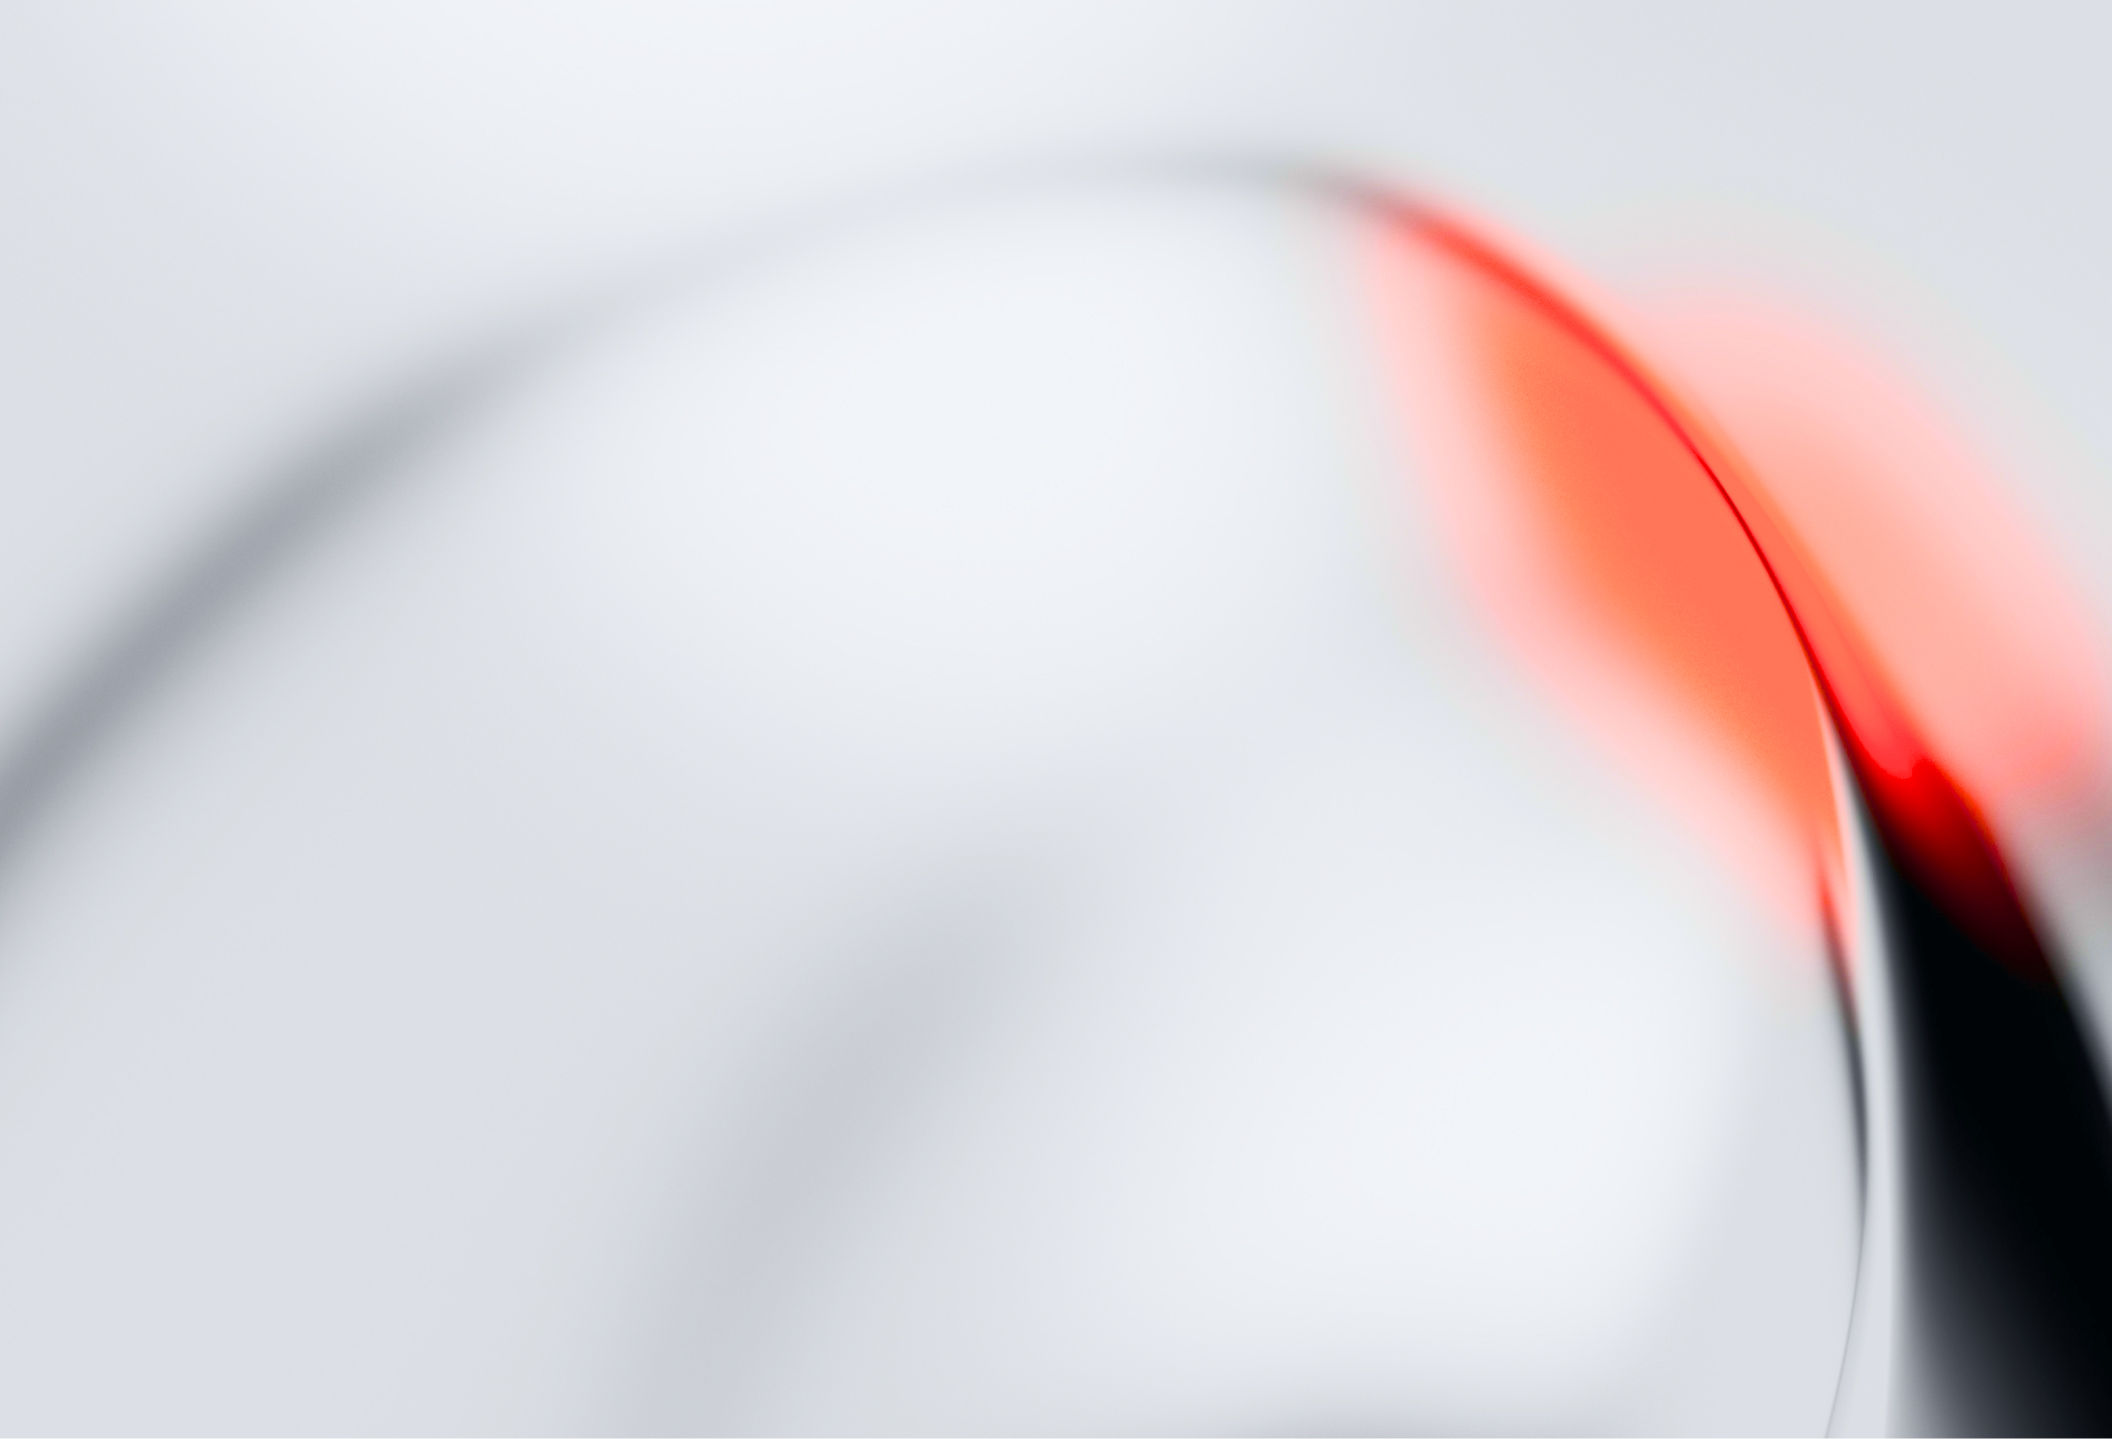
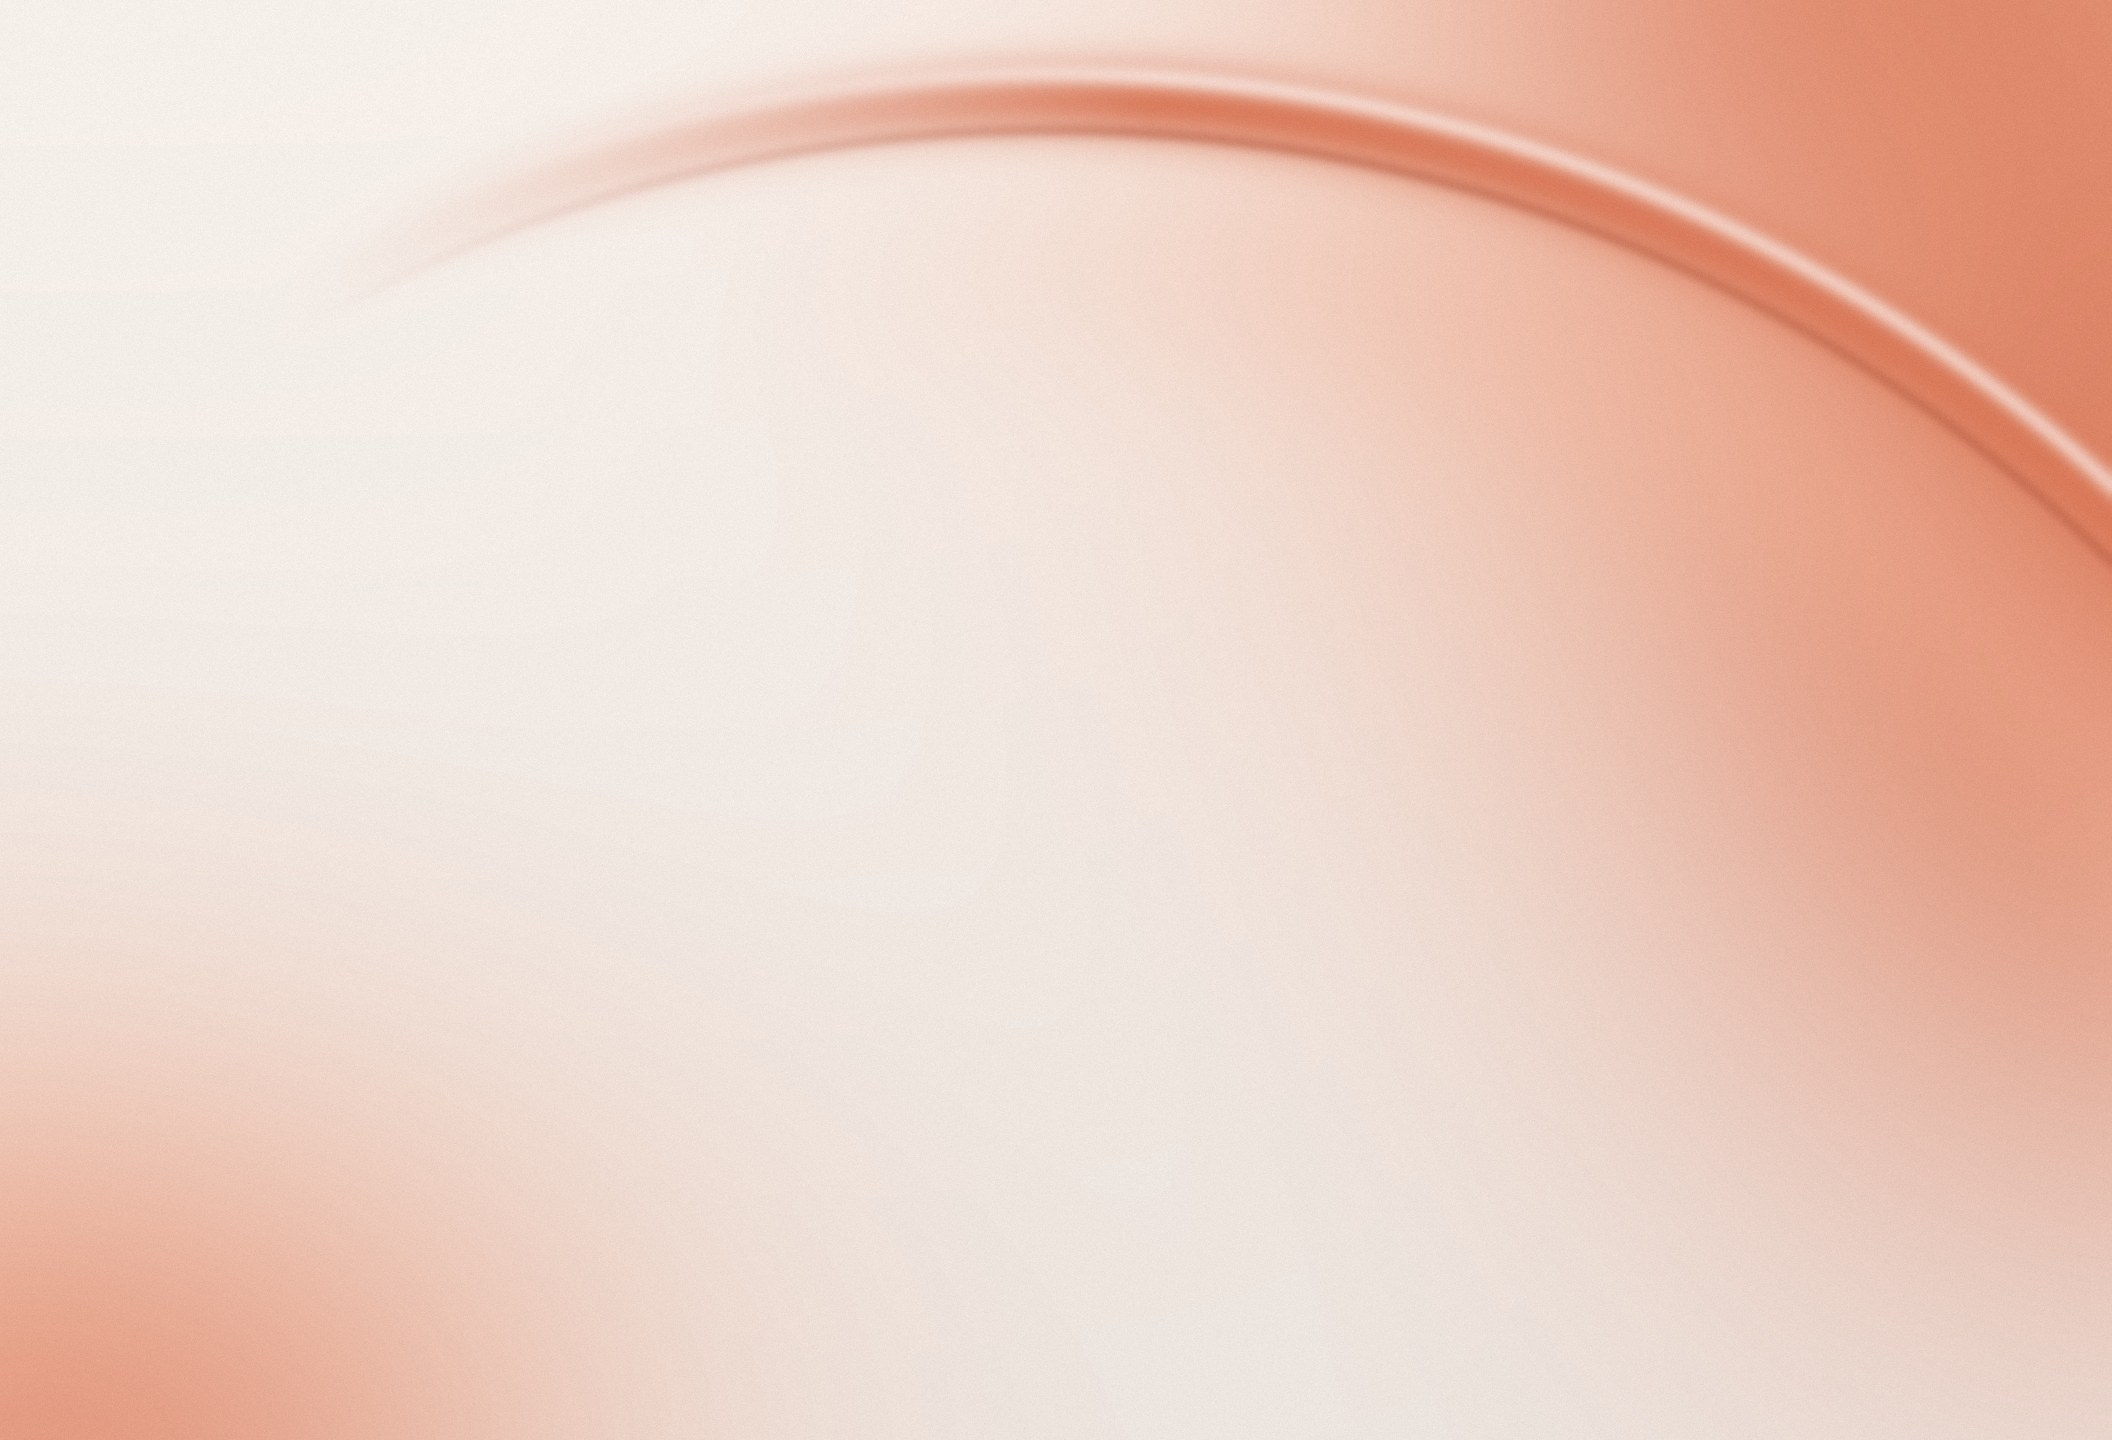
אדום הוחלף בכתום המותג, תמונה ראשית ותמונת צור קשר חדשות
Claude-Session: https://claude.ai/code/session_01WAZ9J5juQGMWQ9d3ahoe3T

diff --git a/site/assets/css/styles.css b/site/assets/css/styles.css
@@ -4706,8 +4706,8 @@ button.animate-btn::after,
   width: 255px;
   height: 80px;
   border-radius: 999px;
-  background: linear-gradient(180deg, #EA2B16 0%, #FF3B26 100%);
-  box-shadow: 0px 3.44px 5.57px 0px rgba(0, 0, 0, 0.0862745098), 0px 22.91px 37.08px 0px rgba(255, 59, 0, 0.1647058824), 0px 76px 123px 0px rgba(255, 59, 0, 0.0509803922), 0px 5.05px 8.18px 0px rgba(255, 59, 0, 0.1019607843), 0px 16.98px 27.47px 0px rgba(255, 59, 0, 0.0470588235), 0px 56px 83px 0px rgba(255, 59, 0, 0.2509803922), 0px 14px 34px 0px rgba(255, 59, 0, 0.2509803922), 0px 1px 2px 0px rgba(255, 59, 0, 0.4);
+  background: linear-gradient(180deg, #C2603F 0%, #D97757 100%);
+  box-shadow: 0px 3.44px 5.57px 0px rgba(0, 0, 0, 0.0862745098), 0px 22.91px 37.08px 0px rgba(217, 119, 87, 0.1647058824), 0px 76px 123px 0px rgba(217, 119, 87, 0.0509803922), 0px 5.05px 8.18px 0px rgba(217, 119, 87, 0.1019607843), 0px 16.98px 27.47px 0px rgba(217, 119, 87, 0.0470588235), 0px 56px 83px 0px rgba(217, 119, 87, 0.2509803922), 0px 14px 34px 0px rgba(217, 119, 87, 0.2509803922), 0px 1px 2px 0px rgba(217, 119, 87, 0.4);
 }
 .section-hero .content-wrap .title-icon .title-icon-wrap {
   position: absolute;
@@ -5321,8 +5321,8 @@ button.animate-btn::after,
   font-size: 32px;
   color: var(--white);
   border-radius: 16px;
-  background: linear-gradient(180deg, #EA2B16 0%, #FF3B26 100%);
-  box-shadow: 0px 3.44px 5.57px 0px rgba(0, 0, 0, 0.0862745098), 0px 22.91px 37.08px 0px rgba(255, 59, 0, 0.1647058824), 0px 76px 123px 0px rgba(255, 59, 0, 0.0509803922), 0px 5.05px 8.18px 0px rgba(255, 59, 0, 0.1019607843), 0px 16.98px 27.47px 0px rgba(255, 59, 0, 0.0470588235), 0px 56px 83px 0px rgba(255, 59, 0, 0.2509803922), 0px 14px 34px 0px rgba(255, 59, 0, 0.2509803922), 0px 1px 2px 0px rgba(255, 59, 0, 0.4), 0px -3px 0px 0px rgba(0, 0, 0, 0.0588235294) inset, 0px 1px 0px 0px rgba(255, 255, 255, 0.6) inset;
+  background: linear-gradient(180deg, #C2603F 0%, #D97757 100%);
+  box-shadow: 0px 3.44px 5.57px 0px rgba(0, 0, 0, 0.0862745098), 0px 22.91px 37.08px 0px rgba(217, 119, 87, 0.1647058824), 0px 76px 123px 0px rgba(217, 119, 87, 0.0509803922), 0px 5.05px 8.18px 0px rgba(217, 119, 87, 0.1019607843), 0px 16.98px 27.47px 0px rgba(217, 119, 87, 0.0470588235), 0px 56px 83px 0px rgba(217, 119, 87, 0.2509803922), 0px 14px 34px 0px rgba(217, 119, 87, 0.2509803922), 0px 1px 2px 0px rgba(217, 119, 87, 0.4), 0px -3px 0px 0px rgba(0, 0, 0, 0.0588235294) inset, 0px 1px 0px 0px rgba(255, 255, 255, 0.6) inset;
   margin-bottom: 96px;
 }
 .process-card .content {
@@ -8724,8 +8724,8 @@ button.animate-btn::after,
   width: 208px;
   height: 160px;
   border-radius: 32px;
-  background: linear-gradient(180deg, #EA2B16 0%, #FF3B26 100%), radial-gradient(62.56% 62.56% at 28.14% -10.42%, rgba(255, 255, 255, 0.2) 0%, rgba(255, 255, 255, 0) 100%);
-  box-shadow: 0px -3px 0px 0px rgba(0, 0, 0, 0.0588235294) inset, 0px 1px 0px 0px rgba(255, 255, 255, 0.6) inset, 0px 3.44px 5.57px 0px rgba(0, 0, 0, 0.0862745098), 0px 22.91px 37.08px 0px rgba(255, 59, 0, 0.1647058824), 0px 76px 123px 0px rgba(255, 59, 0, 0.0509803922), 0px 5.05px 8.18px 0px rgba(255, 59, 0, 0.1019607843), 0px 16.98px 27.47px 0px rgba(255, 59, 0, 0.0470588235), 0px 56px 83px 0px rgba(255, 59, 0, 0.2509803922), 0px 14px 34px 0px rgba(255, 59, 0, 0.2509803922), 0px 1px 2px 0px rgba(255, 59, 0, 0.4);
+  background: linear-gradient(180deg, #C2603F 0%, #D97757 100%), radial-gradient(62.56% 62.56% at 28.14% -10.42%, rgba(255, 255, 255, 0.2) 0%, rgba(255, 255, 255, 0) 100%);
+  box-shadow: 0px -3px 0px 0px rgba(0, 0, 0, 0.0588235294) inset, 0px 1px 0px 0px rgba(255, 255, 255, 0.6) inset, 0px 3.44px 5.57px 0px rgba(0, 0, 0, 0.0862745098), 0px 22.91px 37.08px 0px rgba(217, 119, 87, 0.1647058824), 0px 76px 123px 0px rgba(217, 119, 87, 0.0509803922), 0px 5.05px 8.18px 0px rgba(217, 119, 87, 0.1019607843), 0px 16.98px 27.47px 0px rgba(217, 119, 87, 0.0470588235), 0px 56px 83px 0px rgba(217, 119, 87, 0.2509803922), 0px 14px 34px 0px rgba(217, 119, 87, 0.2509803922), 0px 1px 2px 0px rgba(217, 119, 87, 0.4);
 }
 
 .team-item {
@@ -9002,8 +9002,8 @@ button.animate-btn::after,
   transition: 0.2s;
 }
 .tf-switch-check:checked {
-  background: linear-gradient(180deg, #EA2B16 0%, #FF3B26 100%);
-  box-shadow: 0px 3.44px 5.57px 0px rgba(0, 0, 0, 0.0862745098), 0px 22.91px 37.08px 0px rgba(255, 59, 0, 0.1647058824), 0px 76px 123px 0px rgba(255, 59, 0, 0.0509803922), 0px 5.05px 8.18px 0px rgba(255, 59, 0, 0.1019607843), 0px 16.98px 27.47px 0px rgba(255, 59, 0, 0.0470588235), 0px 56px 83px 0px rgba(255, 59, 0, 0.2509803922), 0px 14px 34px 0px rgba(255, 59, 0, 0.2509803922), 0px 1px 2px 0px rgba(255, 59, 0, 0.4);
+  background: linear-gradient(180deg, #C2603F 0%, #D97757 100%);
+  box-shadow: 0px 3.44px 5.57px 0px rgba(0, 0, 0, 0.0862745098), 0px 22.91px 37.08px 0px rgba(217, 119, 87, 0.1647058824), 0px 76px 123px 0px rgba(217, 119, 87, 0.0509803922), 0px 5.05px 8.18px 0px rgba(217, 119, 87, 0.1019607843), 0px 16.98px 27.47px 0px rgba(217, 119, 87, 0.0470588235), 0px 56px 83px 0px rgba(217, 119, 87, 0.2509803922), 0px 14px 34px 0px rgba(217, 119, 87, 0.2509803922), 0px 1px 2px 0px rgba(217, 119, 87, 0.4);
 }
 .tf-switch-check:checked::before {
   left: 88px;

diff --git a/site/index.html b/site/index.html
@@ -90,16 +90,16 @@
                             <stop offset="1" stop-color="#292C2E"/>
                             </linearGradient>
                             <linearGradient id="paint1_linear_580_105" x1="10.0034" y1="0" x2="10.0034" y2="20" gradientUnits="userSpaceOnUse">
-                            <stop offset="1" stop-color="#EA2B16"/>
-                            <stop offset="1" stop-color="#FF3B26"/>
+                            <stop offset="1" stop-color="#C2603F"/>
+                            <stop offset="1" stop-color="#D97757"/>
                             </linearGradient>
                             <linearGradient id="paint2_linear_580_105" x1="10.2993" y1="-1.30435" x2="21.6031" y2="11.1057" gradientUnits="userSpaceOnUse">
                             <stop offset="1" stop-color="#555D64"/>
                             <stop offset="1" stop-color="#292C2E"/>
                             </linearGradient>
                             <linearGradient id="paint3_linear_580_105" x1="10.0034" y1="0" x2="10.0034" y2="20" gradientUnits="userSpaceOnUse">
-                            <stop offset="1" stop-color="#EA2B16"/>
-                            <stop offset="1" stop-color="#FF3B26"/>
+                            <stop offset="1" stop-color="#C2603F"/>
+                            <stop offset="1" stop-color="#D97757"/>
                             </linearGradient>
                             </defs>
                         </svg>
